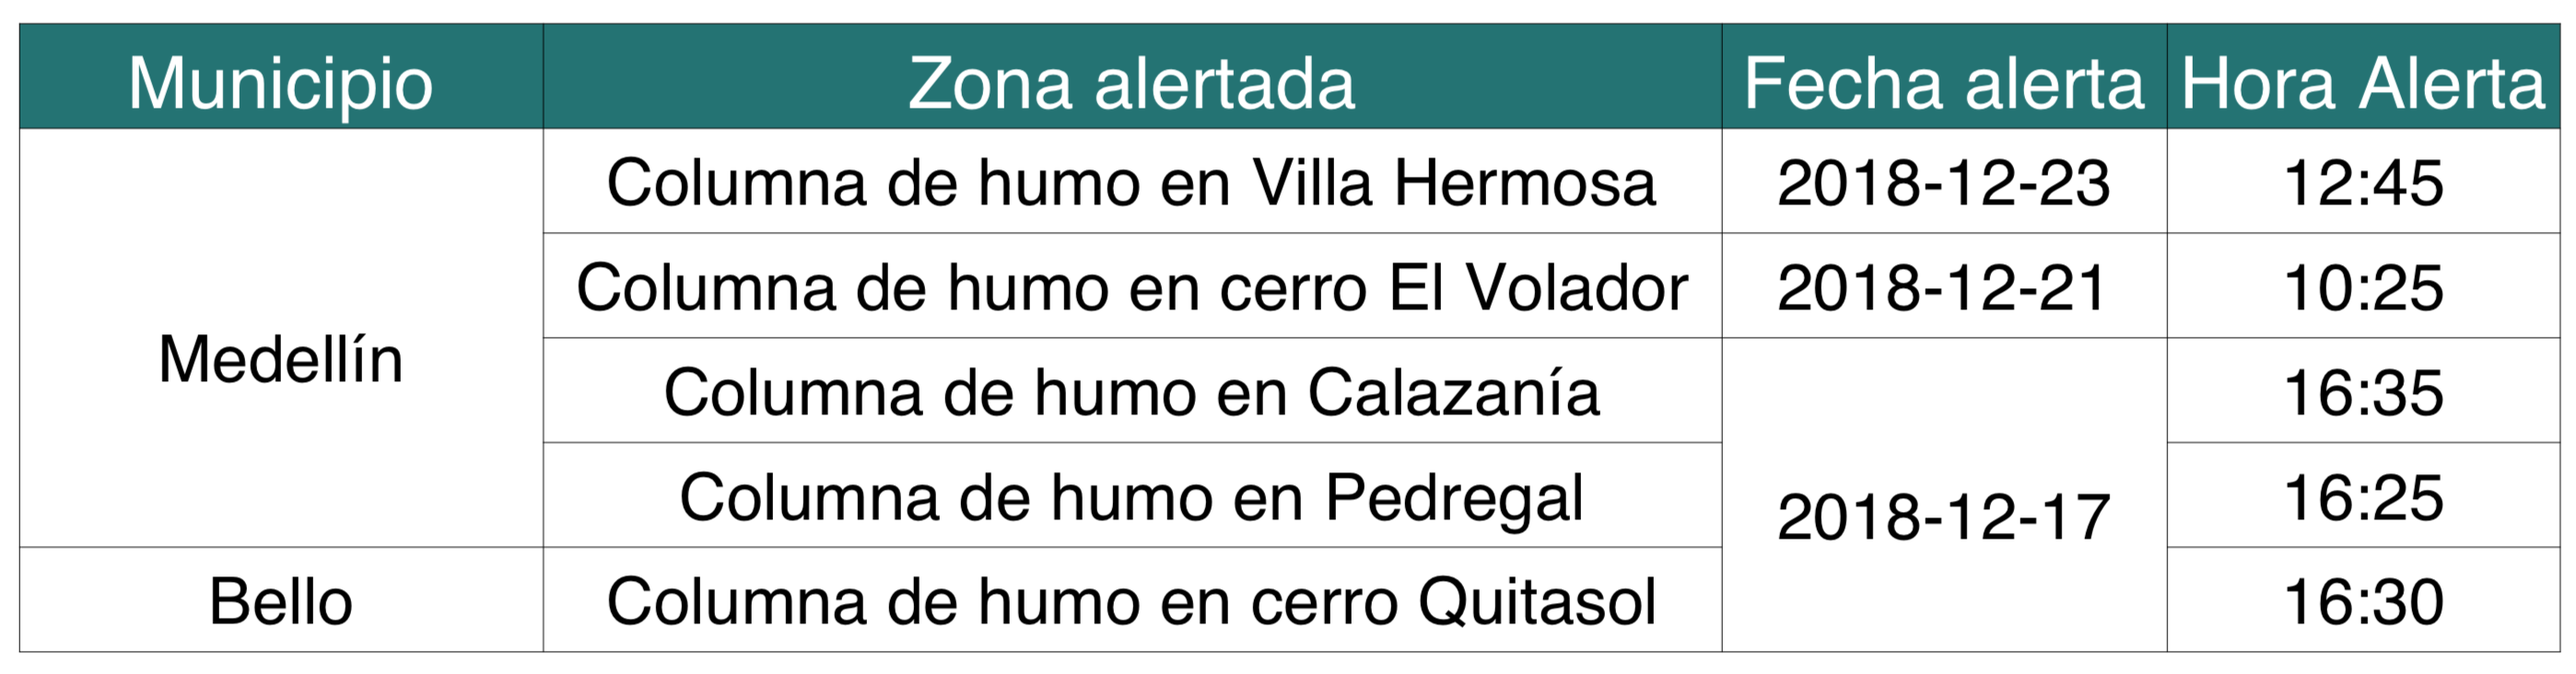
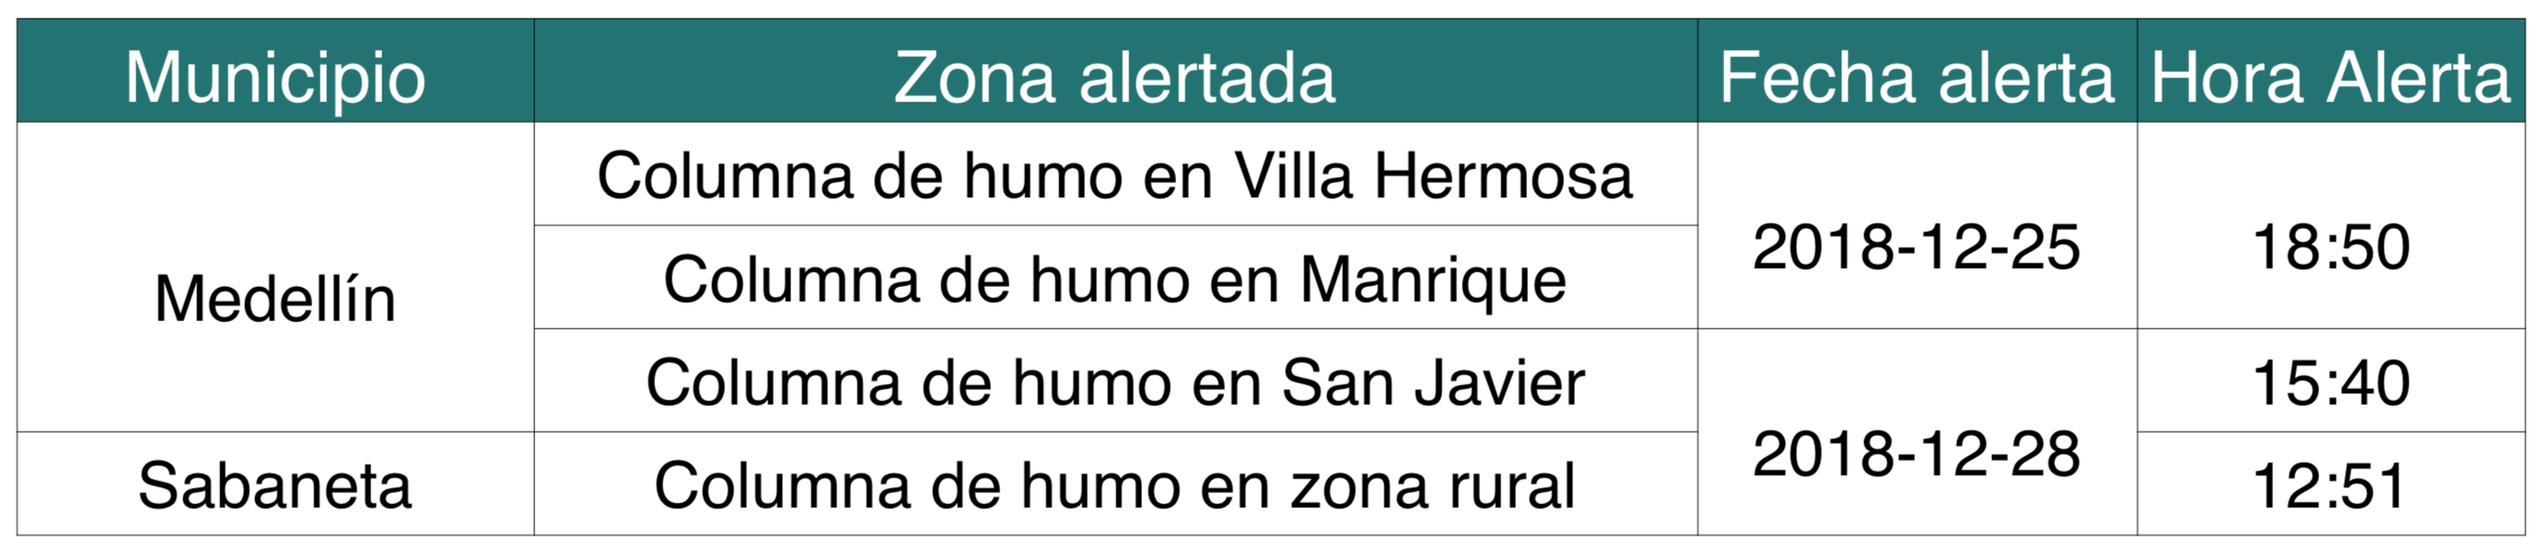
Week December 24th to 30th

diff --git a/Informe/TablaInforme.py b/Informe/TablaInforme.py
@@ -92,13 +92,20 @@ JuanMarica.setFont("Avenir", 24)
 #         [u'Sabaneta',     u'Q. La Sabanetica'                     ,'2018-12-03'  , '17:11'     ],
 #         [u'Caldas',       u'Río Medellín (Parque 3 Aguas)'        ,'2018-12-05'  , '01:27'     ],
 # ]
-# week  December 17th to 23th
+# # week  December 17th to 23th
+# data = [['Municipio',     'Zona alertada'                         ,'Fecha alerta','Hora Alerta'],
+#         [u'Medellín',     u'Columna de humo en Villa Hermosa'     ,'2018-12-23'  , '12:45'     ],
+#         [u'Medellín',     u'Columna de humo en cerro El Volador'  ,'2018-12-21'  , '10:25'     ],
+#         [u'Medellín',     u'Columna de humo en Calazanía'         ,'2018-12-17'  , '16:35'     ],
+#         [u'Medellín',     u'Columna de humo en Pedregal'          ,'2018-12-17'  , '16:25'     ],
+#         [u'Bello',        u'Columna de humo en cerro Quitasol'    ,'2018-12-17'  , '16:30'     ],
+# ]
+# week  December 24th to 30th
 data = [['Municipio',     'Zona alertada'                         ,'Fecha alerta','Hora Alerta'],
-        [u'Medellín',     u'Columna de humo en Villa Hermosa'     ,'2018-12-23'  , '12:45'     ],
-        [u'Medellín',     u'Columna de humo en cerro El Volador'  ,'2018-12-21'  , '10:25'     ],
-        [u'Medellín',     u'Columna de humo en Calazanía'         ,'2018-12-17'  , '16:35'     ],
-        [u'Medellín',     u'Columna de humo en Pedregal'          ,'2018-12-17'  , '16:25'     ],
-        [u'Bello',        u'Columna de humo en cerro Quitasol'    ,'2018-12-17'  , '16:30'     ],
+        [u'Medellín',     u'Columna de humo en Villa Hermosa'     ,'2018-12-25'  , '18:50'     ],
+        [u'Medellín',     u'Columna de humo en Manrique'          ,'2018-12-25'  , '18:50'     ],
+        [u'Medellín',     u'Columna de humo en San Javier'        ,'2018-12-28'  , '15:40'     ],
+        [u'Sabaneta',     u'Columna de humo en zona rural'        ,'2018-12-28'  , '12:51'     ],
 ]
 
 
@@ -117,18 +124,20 @@ t.setStyle(TableStyle([('INNERGRID', (0,0), (-1,-1), 0.25, colors.black),\
                        ('FONTSIZE', (0, 1), (-1, -1), 18),\
                        ('TEXTCOLOR',(0, 0),(-1,0),colors.white),\
                        # # # Municipio
-                       ('SPAN',   (0,1), (0,4)),\
-                       ('VALIGN', (0,1), (0,4),'MIDDLE'),\
+                       ('SPAN',   (0,1), (0,3)),\
+                       ('VALIGN', (0,1), (0,3),'MIDDLE'),\
                        # # # zona
                        # ('SPAN',   (1,1), (1,2)),\
                        # ('VALIGN', (1,1), (1,2),'MIDDLE'),\
 
                        # # # fecha
-                       ('SPAN',   (2,3), (2,5)),\
-                       ('VALIGN', (2,3), (2,5),'MIDDLE'),\
+                       ('SPAN',   (2,1), (2,2)),\
+                       ('VALIGN', (2,1), (2,2),'MIDDLE'),\
+                       ('SPAN',   (2,3), (2,4)),\
+                       ('VALIGN', (2,3), (2,4),'MIDDLE'),\
                        # # # hora
-                       # ('SPAN',   (3,6), (3,7)),\
-                       # ('VALIGN', (3,6), (3,7),'MIDDLE'),\
+                       ('SPAN',   (3,1), (3,2)),\
+                       ('VALIGN', (3,1), (3,2),'MIDDLE'),\
                         ]))
 
 
